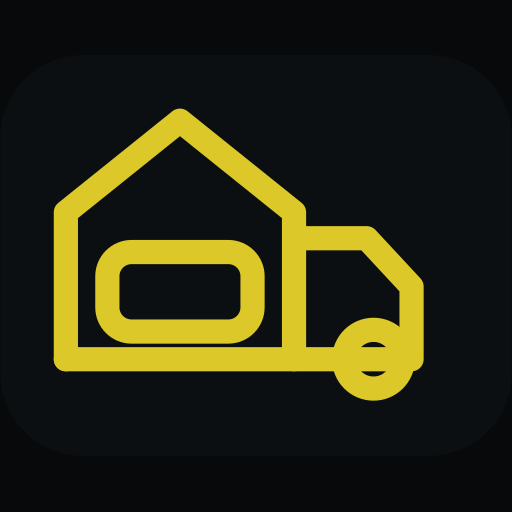
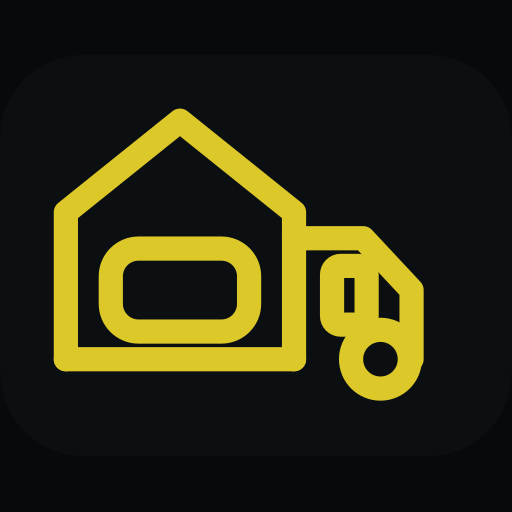
svg added

diff --git a/src/lib/site.ts b/src/lib/site.ts
@@ -94,7 +94,7 @@ export const ticker = [
   "Endreinigung",
   "24/7 erreichbar",
   "Bruder muss los — aber mit SAVO",
-  "Bestpreis-Garantie",
+  "Faire Preise",
 ] as const;
 
 export const services = [
@@ -194,8 +194,8 @@ export const advantages = [
   },
   {
     icon: "euro",
-    title: "Bestpreis-Garantie",
-    text: "Die niedrigsten Preise in Berlin und Brandenburg — ohne Abstriche bei der Leistung.",
+    title: "Faire Preise",
+    text: "Transparente Preise – ohne versteckte Kosten.",
   },
   {
     icon: "shield",
@@ -212,7 +212,7 @@ export const advantages = [
 export const priceCard = {
   eyebrow: "Neukunden-Angebot",
   title: ["30 % Rabatt.", "Erste Buchung."],
-  text: `${promo.newClientText} Dazu ${promo.demontageText.toLowerCase()} Zusätzlich: verbindlicher Festpreis nach der kostenlosen Besichtigung — und unsere Bestpreis-Garantie.`,
+  text: `${promo.newClientText} Dazu ${promo.demontageText.toLowerCase()} Zusätzlich: verbindlicher Festpreis nach der kostenlosen Besichtigung — und faire Preise ohne versteckte Kosten.`,
   cta: "Angebot mit Rabatt anfragen",
 } as const;
 

diff --git a/src/components/icons.tsx b/src/components/icons.tsx
@@ -23,10 +23,11 @@ export function LogoMark(props: SVGProps<SVGSVGElement>) {
       {...props}
     >
       <path d="M7 76V33.5L40 7l33 26.5V76" />
-      <path d="M7 76h95" />
-      <path d="M73 41h21l13 14v21" />
-      <rect x="19" y="45" width="42" height="23" rx="7" />
-      <circle cx="96" cy="76" r="8.5" />
+      <path d="M7 76h66" />
+      <rect x="20" y="44" width="40" height="24" rx="8" />
+      <path d="M73 41h20l14 15v20" />
+      <rect x="84" y="49" width="10" height="17" rx="2.5" />
+      <circle cx="98" cy="76" r="8.5" />
     </svg>
   );
 }
